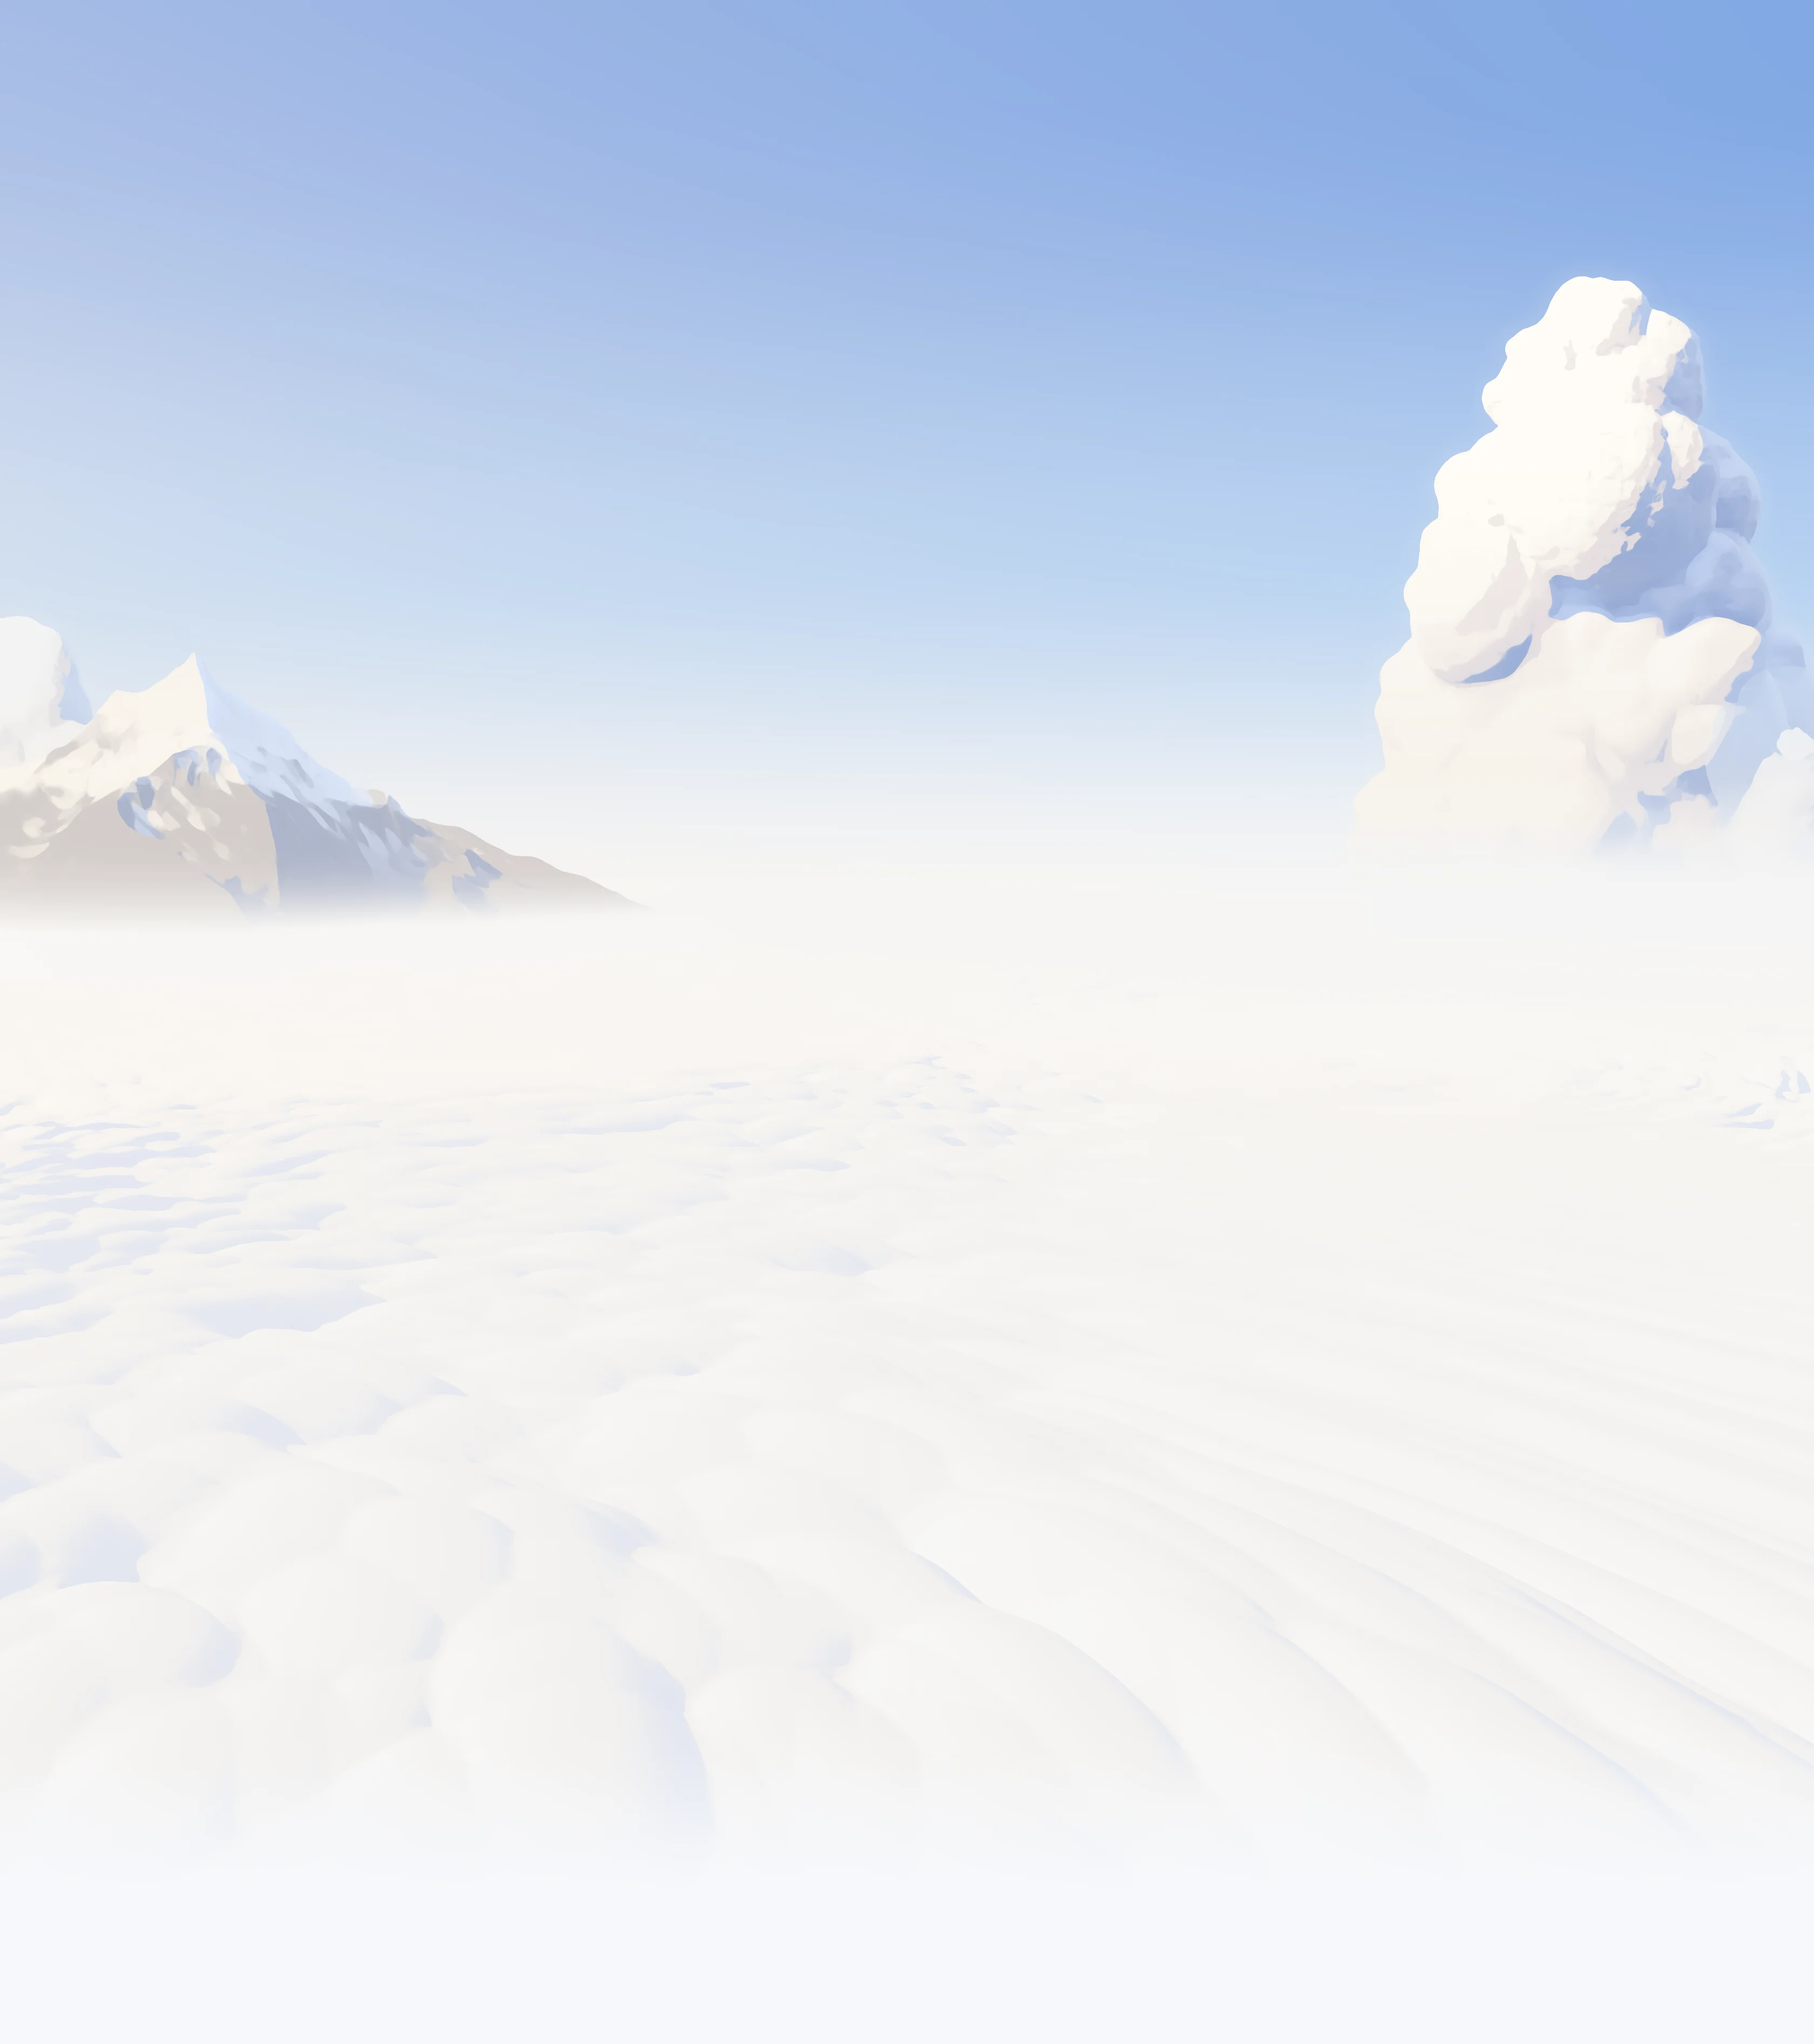
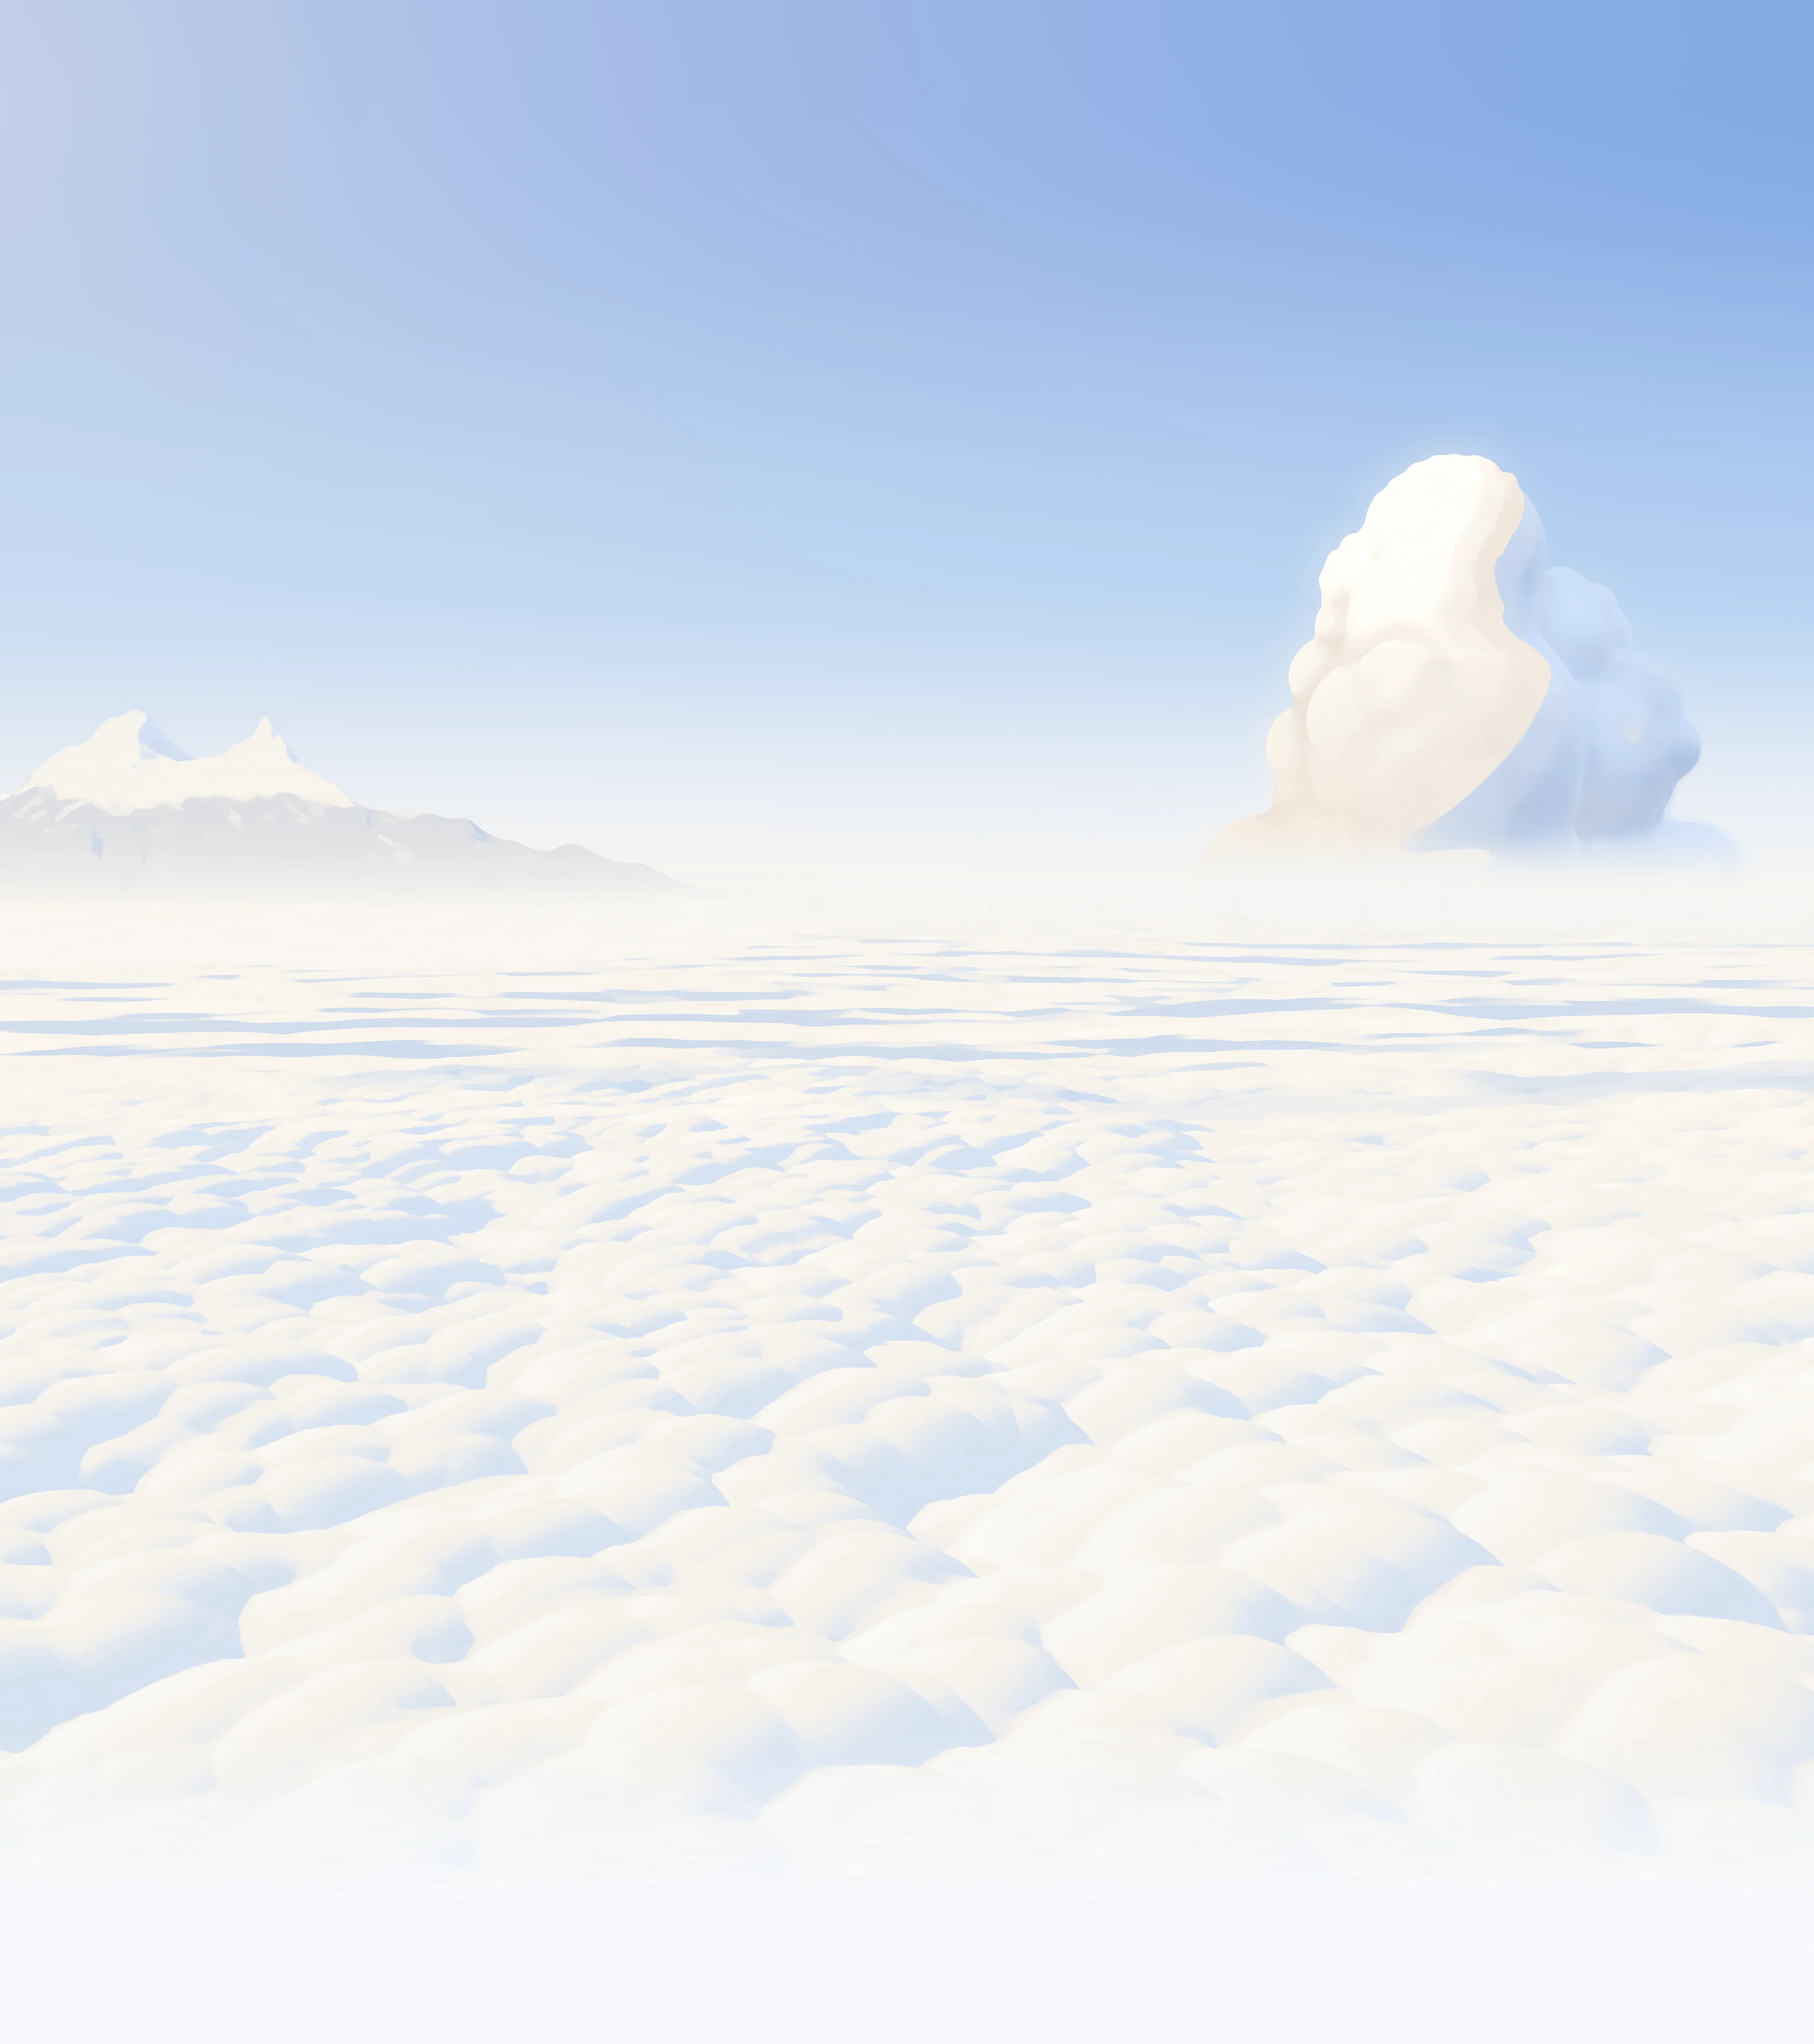
WIP: hero refine round 1
Checkpoint while the hero is being refined from the judges' notes.

Claude-Session: https://claude.ai/code/session_01WzuXxBvKBCaxNgCh2gAtvf

diff --git a/landing/css/sections/hero.css b/landing/css/sections/hero.css
@@ -74,9 +74,9 @@
   }
 }
 /* lqip:start (written by scripts/bake-art.mjs: a tiny blurred copy of each still) */
[6 lines of base64/hex data omitted]
 /* lqip:end */
 /* the live render covers only the part of the box inside the frame (placed by hero.js) */
 .s-hero__live {
@@ -1070,8 +1070,8 @@
   bottom: -10%;
   left: 0;
   width: 46%;
-  background: linear-gradient(90deg, rgba(255, 238, 206, 0) 0%, rgba(255, 238, 206, 0.32) 44%, rgba(255, 249, 236, 0.55) 50%, rgba(255, 238, 206, 0.32) 56%, rgba(255, 238, 206, 0) 100%);
-  mix-blend-mode: soft-light;
+  background: linear-gradient(90deg, rgba(255, 226, 180, 0) 0%, rgba(255, 226, 180, 0.16) 38%, rgba(255, 236, 205, 0.34) 50%, rgba(255, 226, 180, 0.16) 62%, rgba(255, 226, 180, 0) 100%);
+  mix-blend-mode: multiply;
   opacity: 0;
 }
 @media (prefers-reduced-motion: no-preference) {

diff --git a/landing/js/art/sky.js b/landing/js/art/sky.js
@@ -436,6 +436,10 @@ float seaH(vec2 q, float fp){
   float calm = smoothstep(-0.25, 0.35, tn(q * 0.045 + vec2(1.9, 7.3)));
   return uSea.x + swell * 0.6 + (d - 0.5) * uSea.y * (0.8 + 0.35 * swell) * mix(0.45, 1.0, calm);
 }
+float farRows(vec2 rq, float fp){
+  float v = dome(vec3(rq.x * 0.026 + 0.21, rq.y * 0.034 + 0.47, 0.61 + rq.x * 0.004));
+  return v * 0.7 + dome(vec3(rq.x * 0.07 + 0.63, rq.y * 0.085 + 0.19, 0.23)) * 0.3 * smoothstep(3.5, 1.5, fp) + 0.3 * (1.0 - smoothstep(3.5, 1.5, fp)) * 0.85;
+}
 vec3 seaHaze(vec2 w){ return mix(skyCol(vec2(w.x, 0.0)), toLin(P_haze), 0.3); }
 float gFpK;
 float seaHit(vec3 ro, vec3 rd){
@@ -479,21 +483,26 @@ vec3 seaShade(vec3 p, float t, vec2 w){
   vec3 shC = mix(P_seaShLo, P_seaShHi, smoothstep(0.05, 0.8, rel));
   vec3 col = mix(shC, litC, smoothstep(0.05, 0.8, lit));
   col = mix(col, P_clRim, (1.0 - lit) * smoothstep(0.45, 0.95, rel) * 0.35);
-  // toward the horizon the billows are painted as receding rows: warm tops, blue gaps between
-  // them, thinning with distance and fading to their average before they get finer than a stroke
-  float far = smoothstep(12.0, 34.0, t);
-  float rowsV = dome(vec3(p.x * 0.0125 + 0.21 + p.z * 0.003, p.z * 0.07 + 0.47, 0.61));
-  rowsV = rowsV * 0.7 + dome(vec3(p.x * 0.031 + 0.63, p.z * 0.16 + 0.19, 0.23)) * 0.3 * smoothstep(3.5, 1.5, fp);
+  // toward the horizon the billows are painted as receding rows of tops: each lit along its top
+  // and in blue shade on the face turned toward us (the sun is ahead and to the left), the shade
+  // thinning with distance and fading before the rows get finer than a stroke
+  float far = smoothstep(9.0, 26.0, t);
+  vec2 rq = vec2(p.x + tn(p.xz * vec2(0.02, 0.05)) * 9.0, p.z);
+  float dzr = 1.6;
+  float hA = farRows(rq, fp), hB = farRows(rq + vec2(0.0, dzr), fp);
+  float face = smoothstep(0.015, 0.09, hB - hA);
+  float crest = smoothstep(0.012, 0.06, hA - hB) * smoothstep(0.9, 0.97, hA);
   float aa = smoothstep(1.2, 3.5, 3.5 / max(fp, 1e-3));
-  vec3 rowC = mix(mix(P_seaShHi, P_seaShLo, 0.45), litC, smoothstep(0.5, 0.85, rowsV));
-  col = mix(col, rowC, far * mix(0.25, 0.75, aa));
+  vec3 rowC = mix(litC, mix(P_seaShHi, P_seaShLo, 0.35), face);
+  rowC = mix(rowC, P_seaLit2, crest * 0.7);
+  col = mix(col, rowC, far * mix(0.3, 0.8, aa));
   // the near sea is left soft and simple: detail belongs to the focal point, not the foreground
   float near = 1.0 - smoothstep(4.0, 16.0, t);
   col = mix(col, mix(litC, P_seaShHi, 0.25), near * 0.3);
   vec3 c = toLin(col);
   c *= 1.0 + uMood.w;
-  float hz = 1.0 - exp(-t * 0.009);
-  hz = max(hz, smoothstep(90.0, 180.0, t));
+  float hz = 1.0 - exp(-t * 0.0065);
+  hz = max(hz, smoothstep(110.0, 190.0, t));
   return mix(c, seaHaze(w), clamp(hz, 0.0, 1.0));
 }
 
@@ -540,15 +549,16 @@ void main(){
   col = mix(col, seaHaze(w), smoothstep(0.35, 0.0, w.y) * 0.85);
   float paint = 0.0;
   vec4 land = landLayer(w, pix);
+  // the clouds stand in front of the range (it is four times farther away) and fade into the
+  // sea at their foot, so they are laid over the land, not hidden by it
+  vec4 c = w.y > -0.06 ? cloudLayer(fc, w, pix) : vec4(0.0);
   if (land.a < 1.0){
-    vec4 c = cloudLayer(fc, w, pix);
     // air close to a cloud is lit by it: a faint halo softens the cut-out
     col = mix(col, toLin(P_halo), max(gHalo, exp(-gMinD / 0.07) * 0.08) * (1.0 - c.a));
-    col = col * (1.0 - c.a) + c.rgb;
-    paint = c.a;
   }
   col = mix(col, land.rgb, land.a);
-  paint = max(paint, land.a);
+  col = col * (1.0 - c.a) + c.rgb;
+  paint = max(c.a, land.a);
 
   // the valley fades into the page
   col = mix(col, toLin(P_bg), smoothstep(uFade + 1.7, uFade, w.y));
